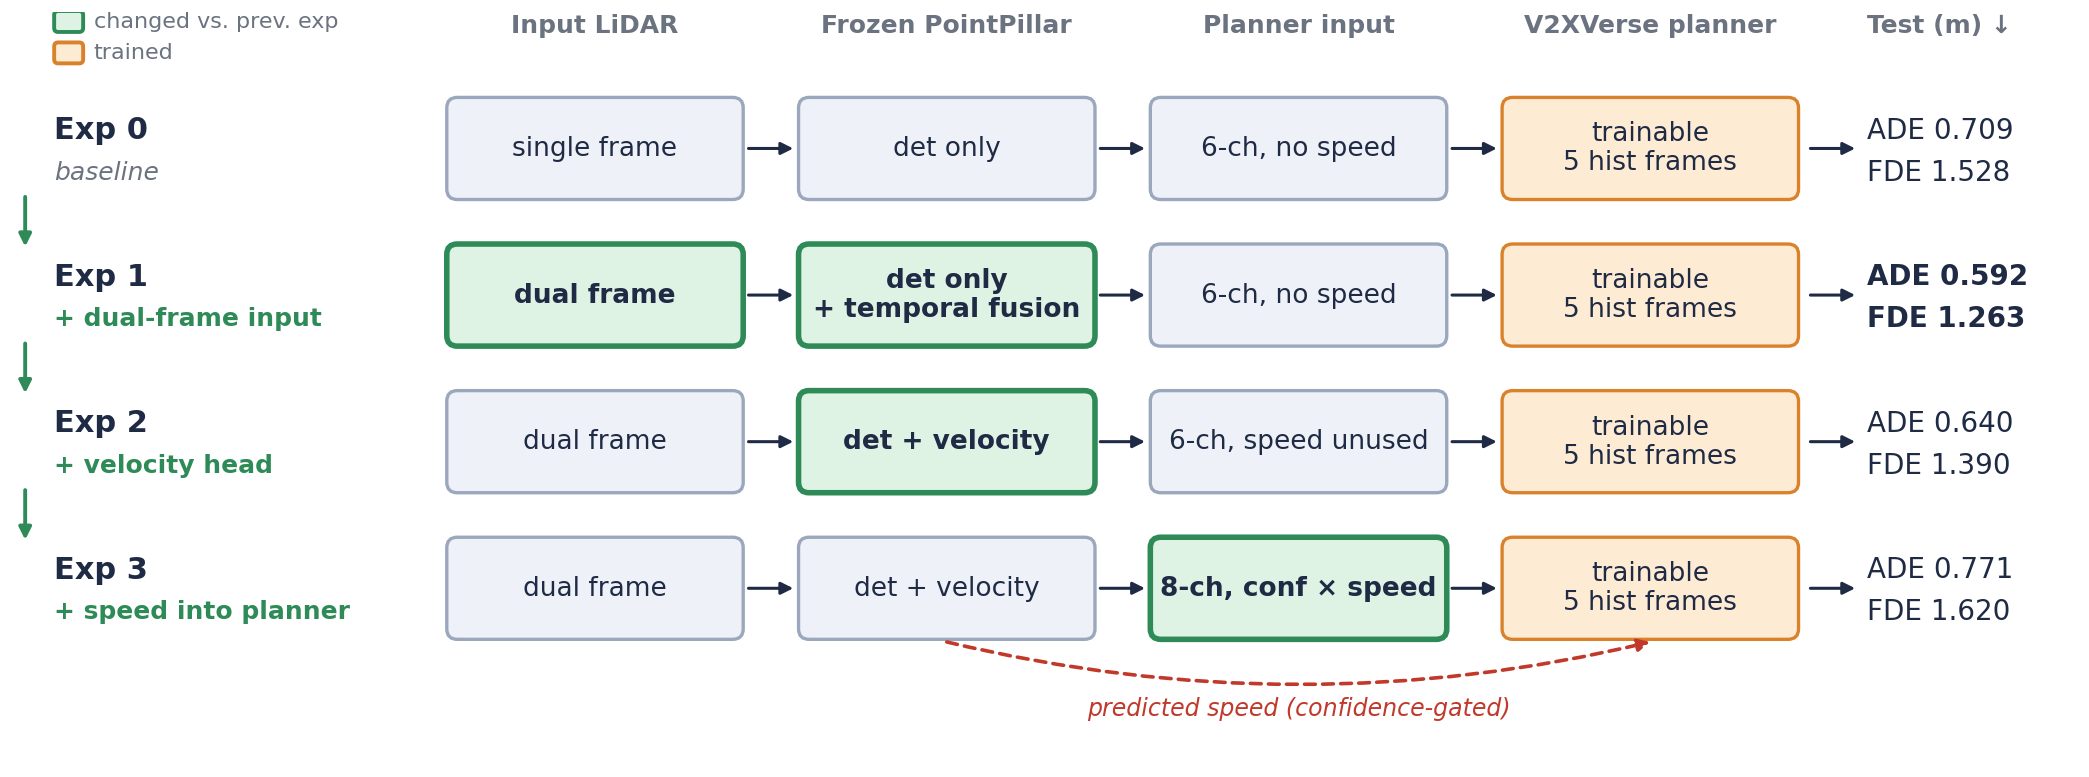
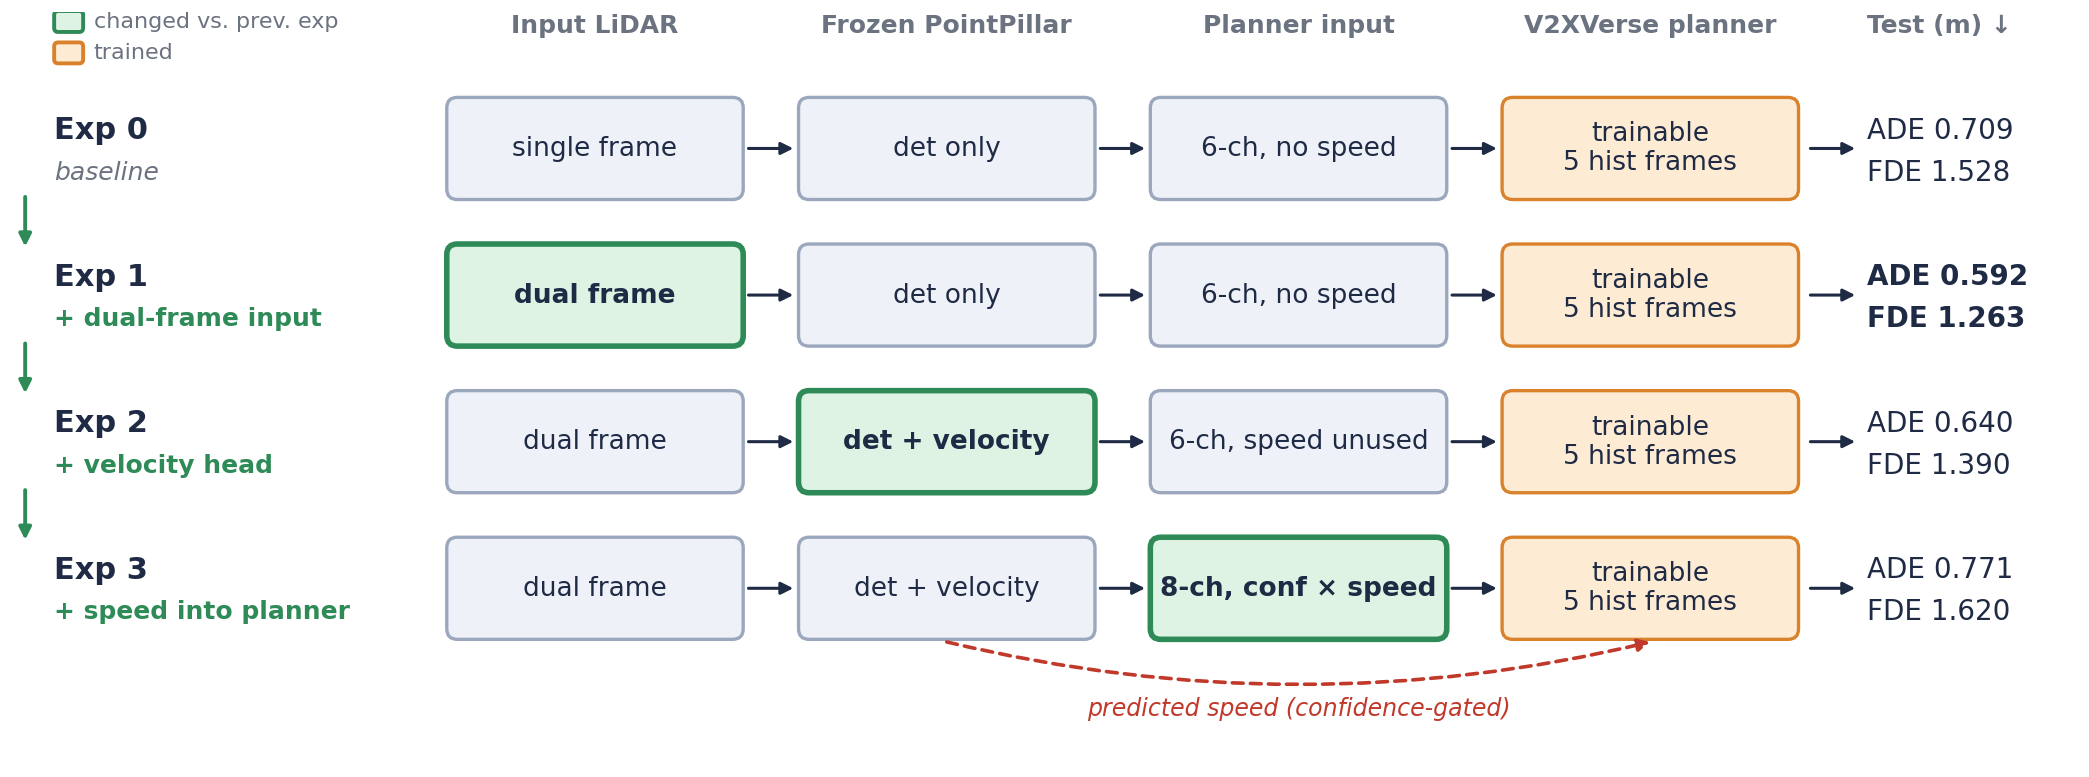
fix diagrams

Changed region(s): [[0.3734, 0.3089, 0.529, 0.4633]]

diff --git a/docs/figures/make_planning_figures.py b/docs/figures/make_planning_figures.py
@@ -43,8 +43,8 @@ EXPS = [
     dict(
         id=1,
         title="Dual-frame det-only",
-        cells=["dual frame", "det only\n+ temporal fusion", "6-ch, no speed", "trainable\n5 hist frames"],
-        delta={0, 1},
+        cells=["dual frame", "det only", "6-ch, no speed", "trainable\n5 hist frames"],
+        delta={0},
         delta_label="+ dual-frame input",
         speed_used=False,
         ade="0.592",
